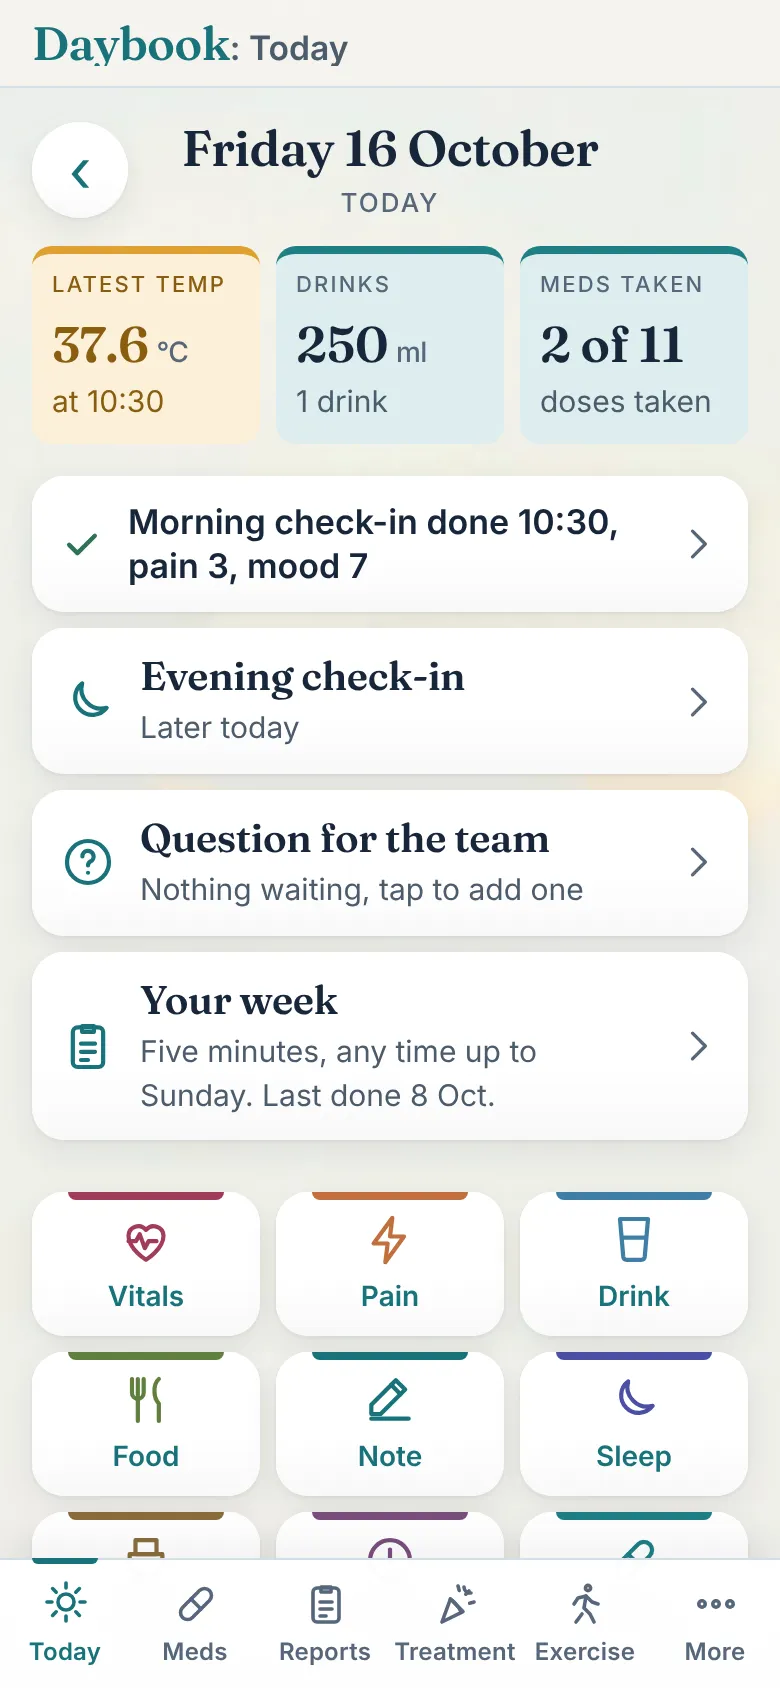
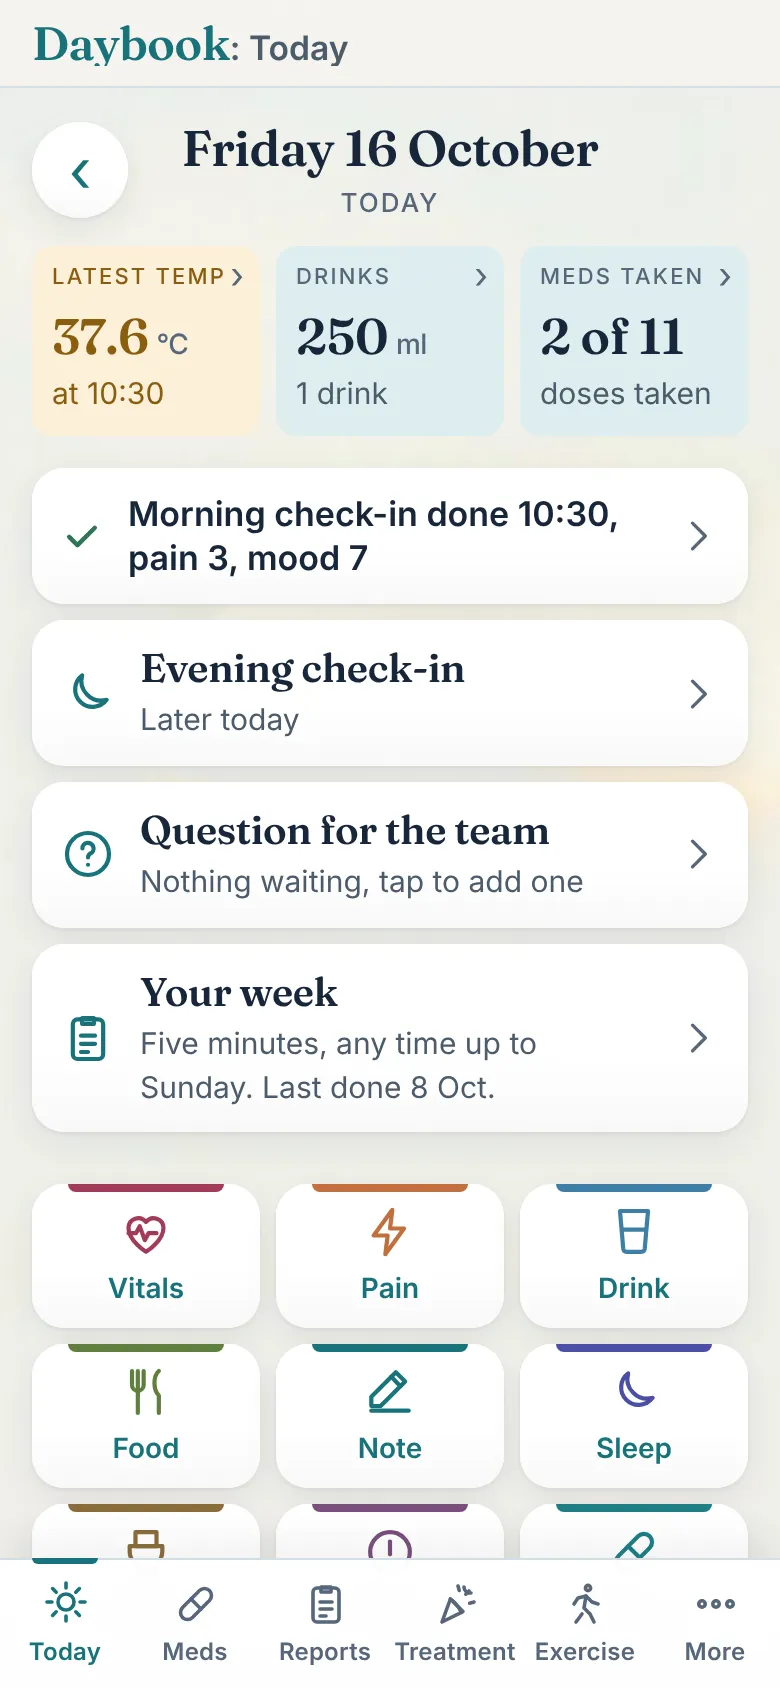
Guide frames retaken at the app's v286 (Bristol wording, Today tiles)
Claude-Session: https://claude.ai/code/session_019VY17MM1Pv81B6vJUTKu9b

diff --git a/js/site.js b/js/site.js
@@ -115,7 +115,7 @@
       if (!reduced && auto !== false) play(); else stop();
     };
     var load = function () {
-      return fetch('guide/guide.json?v=17').then(function (r) { if (!r.ok) throw new Error('guide ' + r.status); return r.json(); });
+      return fetch('guide/guide.json?v=18').then(function (r) { if (!r.ok) throw new Error('guide ' + r.status); return r.json(); });
     };
     load().then(function (d) {
       G.data = d;

diff --git a/privacy.html b/privacy.html
@@ -106,6 +106,6 @@
       <p>Daybook is not a medical device and gives no medical advice. In an emergency call 999; for urgent advice call 111.</p>
     </div>
   </footer>
-  <script src="js/site.js?v=19" defer></script>
+  <script src="js/site.js?v=20" defer></script>
 </body>
 </html>

diff --git a/support.html b/support.html
@@ -75,6 +75,6 @@
       <p>Daybook is not a medical device and gives no medical advice. In an emergency call 999; for urgent advice call 111.</p>
     </div>
   </footer>
-  <script src="js/site.js?v=19" defer></script>
+  <script src="js/site.js?v=20" defer></script>
 </body>
 </html>

diff --git a/terms.html b/terms.html
@@ -83,6 +83,6 @@
       <p>Daybook is not a medical device and gives no medical advice. In an emergency call 999; for urgent advice call 111.</p>
     </div>
   </footer>
-  <script src="js/site.js?v=19" defer></script>
+  <script src="js/site.js?v=20" defer></script>
 </body>
 </html>

diff --git a/beta.html b/beta.html
@@ -153,6 +153,6 @@
     </div>
   </footer>
 
-  <script src="js/site.js?v=19" defer></script>
+  <script src="js/site.js?v=20" defer></script>
 </body>
 </html>

diff --git a/index.html b/index.html
@@ -466,6 +466,6 @@
     </div>
   </footer>
 
-  <script src="js/site.js?v=19" defer></script>
+  <script src="js/site.js?v=20" defer></script>
 </body>
 </html>
